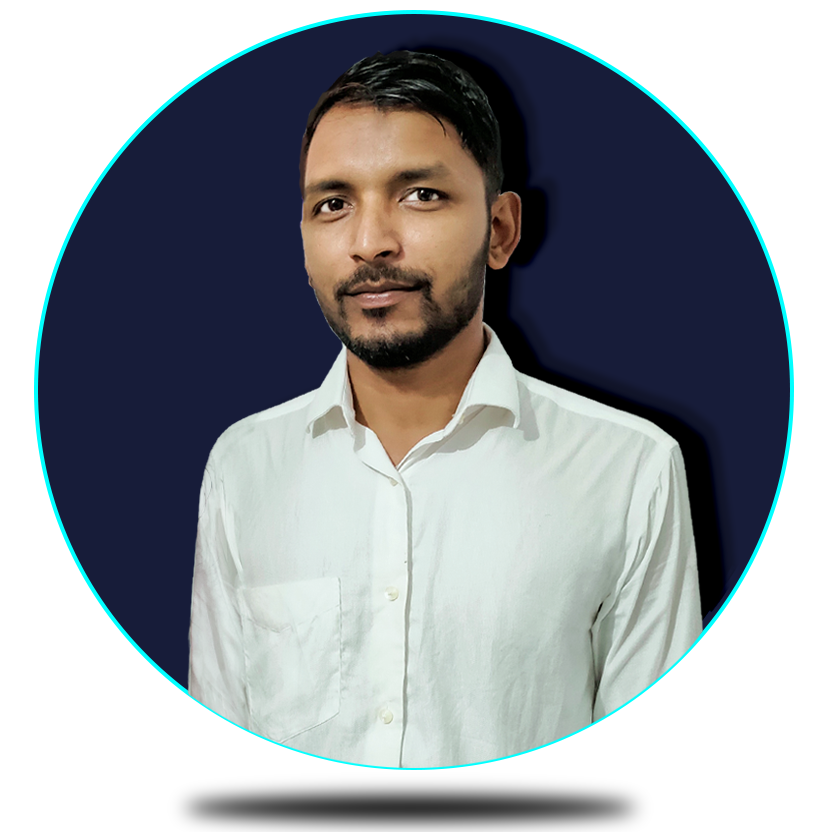
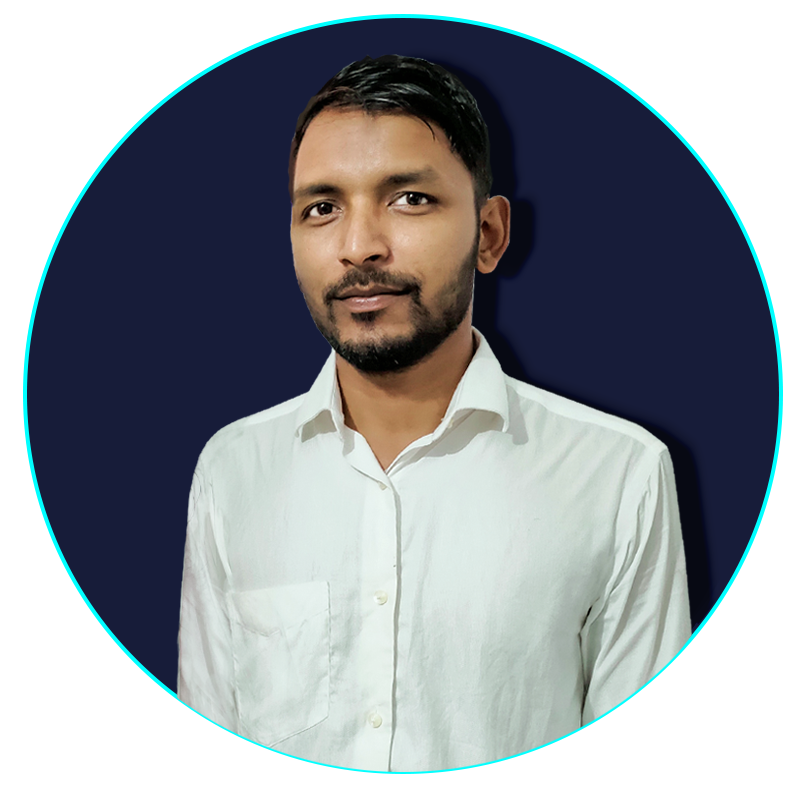
my website

diff --git a/index.html b/index.html
@@ -25,16 +25,36 @@
 
 
 <section class="section-2">
-    <div  class="half-width2">
+    <div class="arif">
+        <div  class="half-width2">
             <h1>Dream Big</h1>
             <h2 class="name-highlight">Become a web developer</h2>
             <p>I already learned the basic HTML and CSS. I can build any simple website. I can even teach my grandma how to make simple website. My goal is to build 3 websites and learn advanced topics</p>
             <a class="link-button2" target="_blank" href="https://www.linkedin.com/in/ahnaf-arif-4b7951153/">DOWNLOAD RESUME</a>
     </div>
+    </div>
+   
     <div class="half-width2">
-        <img src="image/image1.png" alt="">
+        <img src="image/image2.png"  alt="">
 
     </div>
 </section>
+
+<section class="section3">
+    <h2>Experiences</h2>
+    <div id="full-stack" class="half-width shadow">
+            <h2>Full Stack Web Developer</h2>
+            <h3>2021-Present | Pro Level Developer</h3>
+            <p>I am the master of HTML, CSS and Javascript. I know everything needed to make a website function, efficient. I didn't stop with the web. I went beyond with most popular Javascript framework called Vue JS. I even know the deployment, server and security. I will give you 100% web solution.</p>
+    </div>
+
+    <div id="baby-web" class="half-width shadow">
+        <h2>Baby Web Developer</h2>
+        <h3>2020-2021 | Programming Hero Learner</h3>
+        <p>They didn't offer me a job. But I made myself as a remove web developer. I made their website and showed it to them. They liked it. And uploaded the content. It was fun working at Programming Hero</p>
+    </div>
+
+</section>
+
 </body>
 </html>

diff --git a/style.css b/style.css
@@ -1,6 +1,7 @@
 body{
     font-family: 'Barlow', sans-serif;
     margin: 0;
+    
 }
 .section-1{
     background-image: url('image/bg.png');
@@ -41,13 +42,14 @@ p{
     width: 40%;
     float: right;
     margin-right: 5%;
-    margin-top: 10%;
+    margin-top: 13%;
     padding-right: 2%;
 
 }
 .half-width2 img{
-    width: 90%;
+    width: 70%;
     float: left;
+    padding-left: 10%;
 }
 .link-button, .link-button2{
     text-decoration: none;
@@ -63,5 +65,34 @@ p{
 }
 .half-width2 h2{
     font-size: 20px;
-    padding-bottom: 15px;
+    padding-bottom: 0px;
+}
+
+.section3{
+    background-image: url('image/bg2.png');
+    height: 100vh;
+}
+.shadow{
+    box-shadow: 10px 10px 30px rgb(0, 0, 0);
+    border-radius: 10px;
+    height: 40%;
+}
+#full-stack{
+    border-left: 7px solid;
+    border-image: linear-gradient(180deg, rgb(4, 232, 185) , rgb(117, 218, 255));
+    border-image-slice: 1;
+}
+#baby-web{
+    border-left: 7px solid;
+    border-image: linear-gradient(90deg, rgb(4, 232, 185) , rgb(117, 218, 255));
+    border-image-slice: 1;
+}
+.section3 h2{
+    text-align: center;
+    padding-top: 2%;
+    color:rgb(4, 232, 185) ;
+    font-size: 30px;
+}
+.section3 h3{
+    color: #73d9ff;
 }
